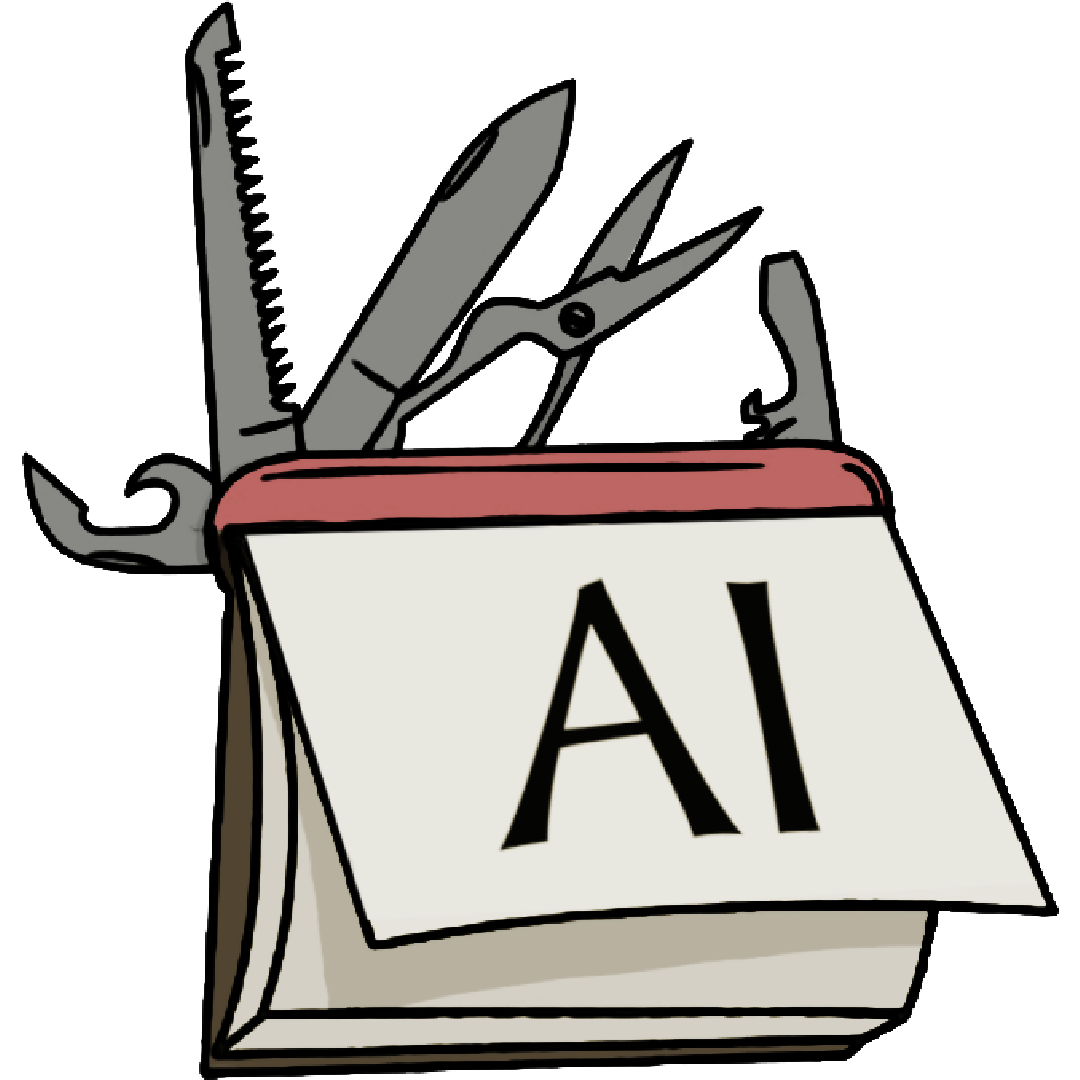
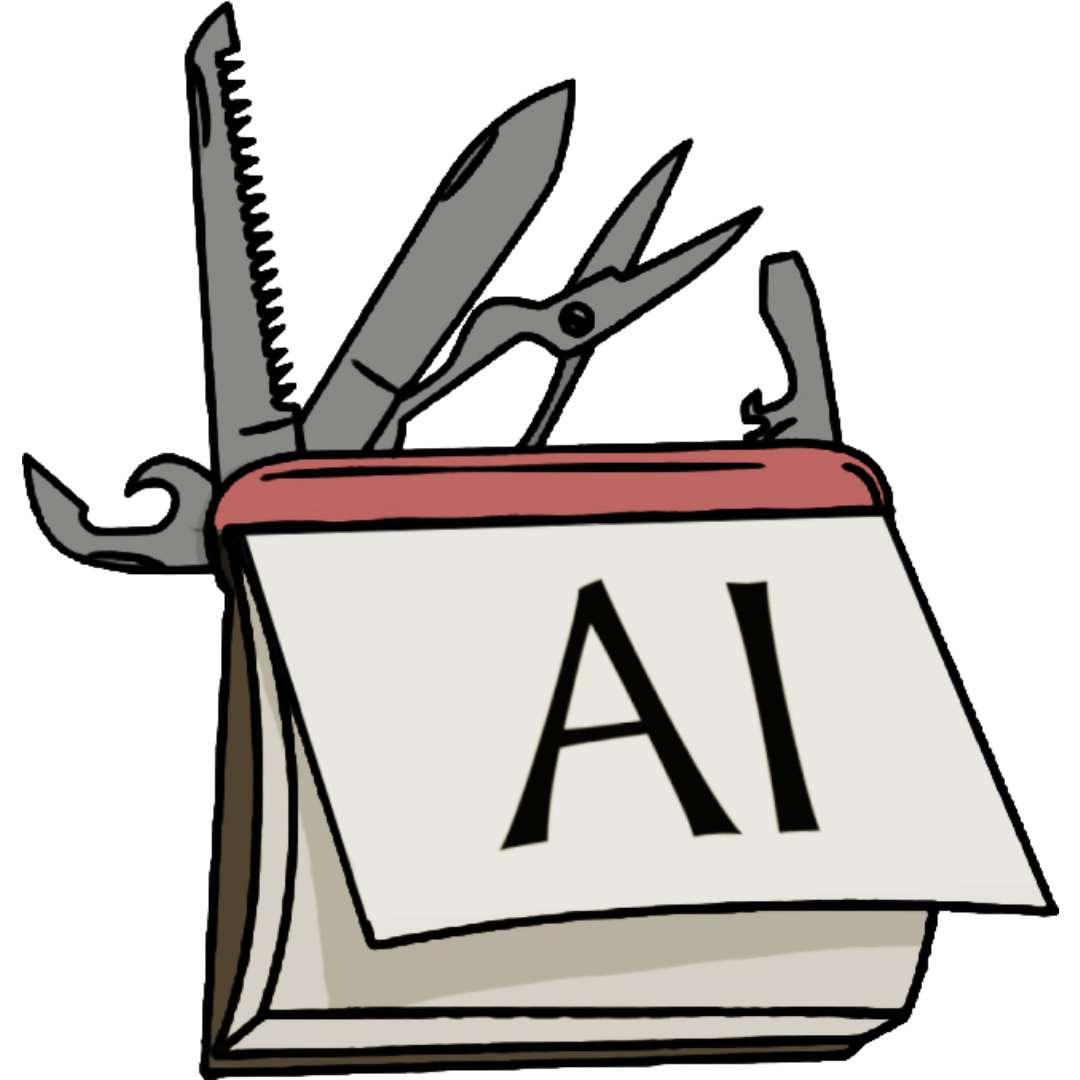
Changing AI reflection essay image and width

diff --git a/essays/ai-resource-or-tool.md b/essays/ai-resource-or-tool.md
@@ -13,7 +13,7 @@ labels:
 <div style="text-align: center;">
   <strong style="font-size: 24px; padding-top: 24px;">"AI as enablers, not as the solution" ~ Jayden 2024</strong>
   <br>
-  <img src="../img/aireflection/ai-tool-book.png" alt="AI as a tool or a resource" width="500" style="padding-top: 16px; padding-bottom: 24px;" />
+  <img src="../img/aireflection/ai-tool-book.png" alt="AI as a tool or a resource" width="300" style="padding-top: 16px; padding-bottom: 24px;" />
 </div>
 
 In Academia, I have personally seen a dramatic rise in AI use for student assistance. This is not only found in the Computer Science (CS) major but in multiple majors. In the CS major, AI is commonly used to explain, write, debug, test, and fix student code. I have used ChatGPT and Co-Pilot.
